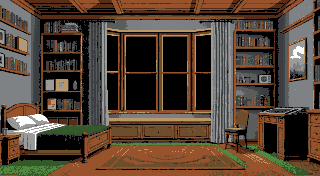
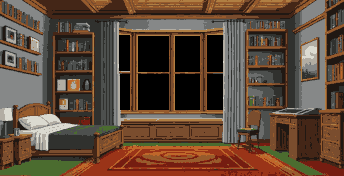
New bedroom scene

diff --git a/src/act_1.c b/src/act_1.c
@@ -3,6 +3,61 @@
 
 void act_1_scene_1(void)
 {
+    u16 paltmp[64];
+
+    // Initialize level
+    new_level(&historians_bg_tile, &historians_bg_map, &bedroom_front_tile, &bedroom_front_map, bedroom_night_pal, 344, BG_SCRL_AUTO_RIGHT, 2);
+
+    // Use swan palette instead of characters palette
+    PAL_setPalette(PAL1, swan_sprite.palette->data, DMA);
+
+    // Initialize characters and dialog faces
+    init_character(CHR_swan);
+    init_character(CHR_linus);
+
+    // Initialize items
+    init_item(0, &item_linus_sleeping, PAL0, 30, 112, 0, 0, 0, 0); // Linus sleeping
+
+    // // Flash to white, show swan, fade back
+    // wait_seconds(2);
+    // PAL_getColors(0, paltmp, 64); // backup current palete
+    // PAL_fadeToAll(geesebumps_pal_white.data, SCREEN_FPS, false); // fade to white
+    // move_character_instant(CHR_swan,141,110);
+    // show_character(CHR_swan, true); // show swan
+    // PAL_fadeToAll(paltmp, SCREEN_FPS, false); // fade to palete
+    // wait_seconds(2);
+
+    // // Dialog
+    // talk_dialog(&dialogs[ACT1_DIALOG4][0]);
+
+    // // Flash to white, hide swan, fade back
+    // wait_seconds(2);
+    // PAL_getColors(0, paltmp, 64); // backup current palete
+    // PAL_fadeToAll(geesebumps_pal_white.data, SCREEN_FPS, false); // fade to white
+    // show_character(CHR_swan, false); // show swan
+    // PAL_fadeToAll(paltmp, SCREEN_FPS, false); // fade to palete
+    // wait_seconds(2);
+    
+    // Daytime
+    PAL_fadeTo(0, 15, bedroom_pal.data, SCREEN_FPS, false);
+
+    // Dialog
+    talk_dialog(&dialogs[ACT1_DIALOG4][1]);
+
+    // Wake linus up
+    release_item(0);
+    PAL_setPalette(PAL1, linus_sprite.palette->data, DMA);
+    move_character_instant(CHR_linus, 35, 170);
+    show_character(CHR_linus, true);
+
+    while (true)
+    {
+        next_frame(true);
+    }
+}
+
+void __OLD__act_1_scene_1(void)
+{
     // Initialize level
     new_level(NULL, NULL, &historians_corridor_front_tile, &historians_corridor_front_map, historians_corridor_pal, 576, BG_SCRL_USER_LEFT, 0);
     set_limits(0,131,275,170);

diff --git a/src/texts.c b/src/texts.c
@@ -20,7 +20,7 @@ const DialogItem system_dialog[] = { // System messages
     {0, false, DEFAULT_TALK_TIME, {NULL, NULL}} // Terminator
 };
 
-const DialogItem act1_dialog1[] = {
+const DialogItem act1_dialog1[] = { // Historians corridor
     {FACE_linus, SIDE_RIGHT, DEFAULT_TALK_TIME, 
         {"Creo que he dormido demasiado|Debo llegar rápido al salón", 
          "I think I've overslept|I should go to the hall quickly"}},
@@ -48,7 +48,7 @@ const DialogItem act1_dialog1[] = {
     {0, false, DEFAULT_TALK_TIME, {NULL, NULL}} // Terminator
 };
 
-const DialogItem act1_dialog2[] = {
+const DialogItem act1_dialog2[] = { // Histoiran hall
     {FACE_none, SIDE_LEFT, DEFAULT_TALK_TIME, // 0 - introduction
         {"Gremio de los historiadores|Año 8121", 
          "Historians guild|Year 8121"}},
@@ -118,7 +118,7 @@ const DialogItem act1_dialog2[] = {
     {0, false, DEFAULT_TALK_TIME, {NULL, NULL}} // Terminator
 };
 
-const DialogItem act1_dialog3[] = {
+const DialogItem act1_dialog3[] = { // Combat zone
     {FACE_none, SIDE_LEFT, DEFAULT_TALK_TIME, 
         {"Algún tiempo después", 
          "Some time later"}},
@@ -158,11 +158,22 @@ const DialogItem act1_dialog3[] = {
     {0, false, DEFAULT_TALK_TIME, {NULL, NULL}} // Terminator
 };
 
+const DialogItem act1_dialog4[] = { // Historians corridor
+    {FACE_swan, SIDE_LEFT, DEFAULT_TALK_TIME, 
+        {"Diálogo por escribir...",
+        "Pending dialog..."}},
+    {FACE_none, SIDE_LEFT, DEFAULT_TALK_TIME, 
+        {"La mañana siguiente...",
+        "Next morning..."}},
+    {0, false, DEFAULT_TALK_TIME, {NULL, NULL}} // Terminator
+};
+
 const DialogItem *dialogs[] = {
     system_dialog,  // 0
     act1_dialog1,   // 1
     act1_dialog2,   // 2
     act1_dialog3,   // 3
+    act1_dialog4,   // 4
 };
 
  // Code Spanish text in the game font charset

diff --git a/res/res_backgrounds.h b/res/res_backgrounds.h
@@ -1,13 +1,17 @@
 #ifndef _RES_RES_BACKGROUNDS_H_
 #define _RES_RES_BACKGROUNDS_H_
 
+extern const TileSet bedroom_front_tile;
+extern const MapDefinition bedroom_front_map;
+extern const Palette bedroom_pal;
+extern const Palette bedroom_night_pal;
 extern const TileSet historians_corridor_front_tile;
 extern const MapDefinition historians_corridor_front_map;
 extern const Palette historians_corridor_pal;
-extern const TileSet historians_bg_tile;
-extern const MapDefinition historians_bg_map;
 extern const TileSet historians_front_tile;
 extern const MapDefinition historians_front_map;
+extern const TileSet historians_bg_tile;
+extern const MapDefinition historians_bg_map;
 extern const Palette historians_pal;
 extern const TileSet weavers_front_tile;
 extern const MapDefinition weavers_front_map;

diff --git a/src/characters.c b/src/characters.c
@@ -31,6 +31,9 @@ void init_character(u16 nchar)
         case CHR_xander:
             nsprite = &xander_sprite;
             break;
+        case CHR_swan:
+            nsprite = &swan_sprite;
+            break;
         default:
             return; 
         }
@@ -79,6 +82,9 @@ void init_face(u16 nface)
             break;
         case CHR_xander:
             nsprite = &xander_face_sprite;
+            break;
+        case CHR_swan:
+            nsprite = &swan_face_sprite;
             break;
         default:
             return;

diff --git a/src/characters.h b/src/characters.h
@@ -2,17 +2,19 @@
 #define _CHARACTERS_H_
 
 // Characters
-#define MAX_CHR       3
+#define MAX_CHR       4
 #define CHR_linus     0
 #define CHR_clio      1
 #define CHR_xander    2
+#define CHR_swan      3
 #define CHR_NONE      254
 
 // Faces
-#define MAX_FACE      3
+#define MAX_FACE      4
 #define FACE_linus    0
 #define FACE_clio     1
 #define FACE_xander   2
+#define FACE_swan     3
 #define FACE_none     250
 #define SIDE_left     true
 #define SIDE_right    false

diff --git a/res/res_faces.h b/res/res_faces.h
@@ -6,5 +6,6 @@ extern const SpriteDefinition face_right_sprite;
 extern const SpriteDefinition linus_face_sprite;
 extern const SpriteDefinition clio_face_sprite;
 extern const SpriteDefinition xander_face_sprite;
+extern const SpriteDefinition swan_face_sprite;
 
 #endif // _RES_RES_FACES_H_

diff --git a/res/res_characters.h b/res/res_characters.h
@@ -4,5 +4,7 @@
 extern const SpriteDefinition linus_sprite;
 extern const SpriteDefinition clio_sprite;
 extern const SpriteDefinition xander_sprite;
+extern const SpriteDefinition swan_sprite;
+extern const Palette swan_pal;
 
 #endif // _RES_RES_CHARACTERS_H_

diff --git a/res/res_items.h b/res/res_items.h
@@ -1,6 +1,7 @@
 #ifndef _RES_RES_ITEMS_H_
 #define _RES_RES_ITEMS_H_
 
+extern const SpriteDefinition item_linus_sleeping;
 extern const SpriteDefinition item_bookpedestal_sprite;
 
 #endif // _RES_RES_ITEMS_H_

diff --git a/src/main.c b/src/main.c
@@ -11,7 +11,7 @@ int main(bool hard)
     //theweave_intro();  // Game intro
 
     current_act=1;
-    current_scene=2;
+    current_scene=1;
 
     while (true) { // MAIN LOOP
         switch (current_act)

diff --git a/src/texts.h b/src/texts.h
@@ -14,6 +14,7 @@ extern u8 game_language;
 #define ACT1_DIALOG1    1
 #define ACT1_DIALOG2    2
 #define ACT1_DIALOG3    3
+#define ACT1_DIALOG4    4
 
 typedef struct {
     u8 face;
